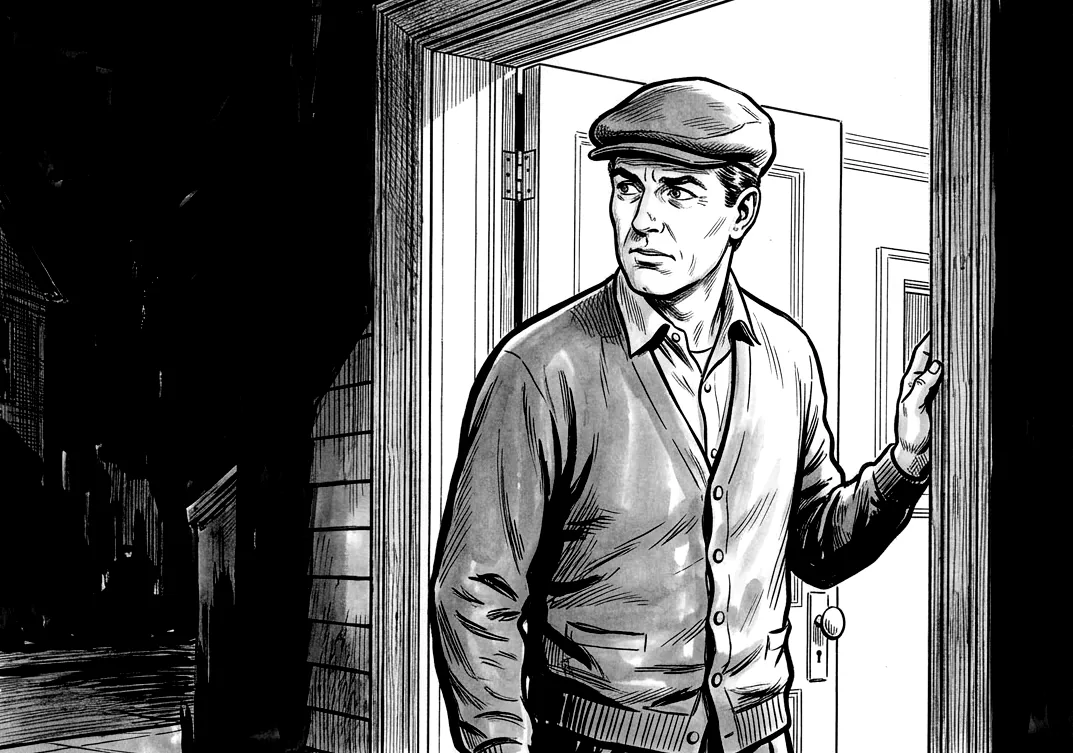
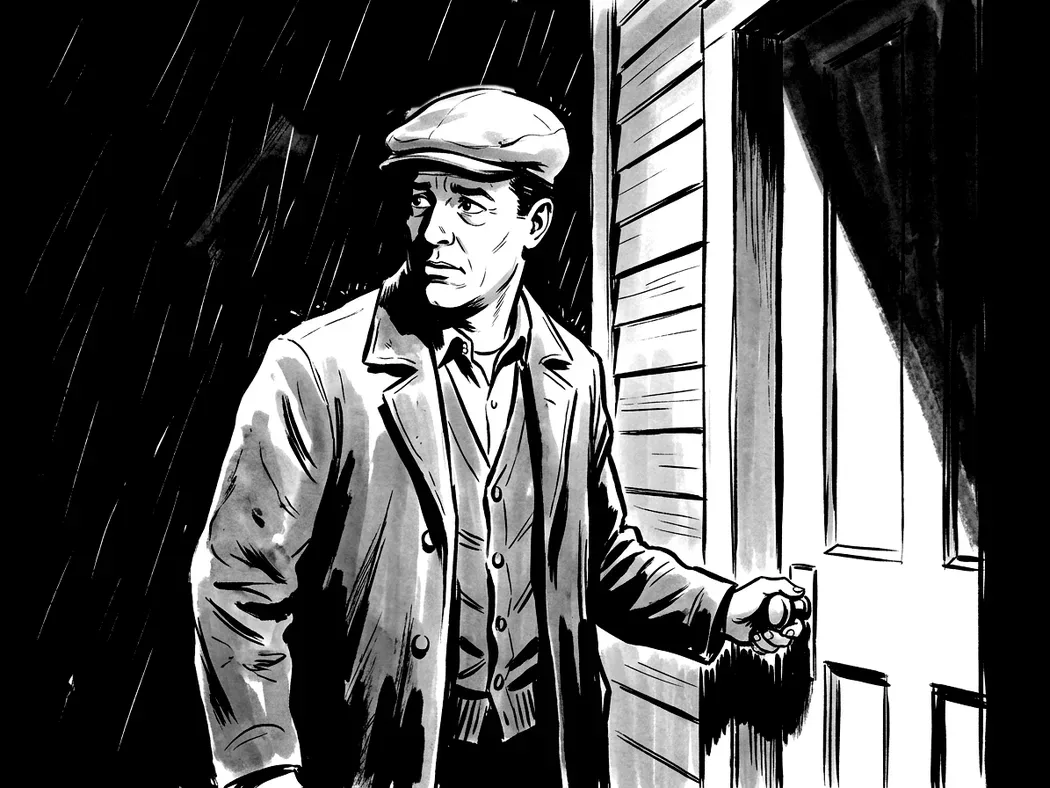
Byt stadsbons rollbilder mot nya vid ytterdörren
Mannen är framtagen efter sex försök och har gatlyktan bortmålad med
svart; kvinnan är gjord med honom som referens (Jonas 2026-11-15).

Claude-Session: https://claude.ai/code/session_01X82C4AptUEE9LHKngPSzUq

diff --git a/src/scenes/sceneImages.js b/src/scenes/sceneImages.js
@@ -96,8 +96,8 @@ export const SCENE_IMAGES = /** @type {const} */ ({
   roleDoctorMan: { src: roleDoctorMan, alt: 'En läkare med glasögon och mustasch, i vit rock med stetoskop, står vid skrivbordet i sin mottagning, i ljuset från en skrivbordslampa.', position: '100% 30%' },
   roleLawyerWoman: { src: roleLawyerWoman, alt: 'En advokat i knäppt dräkt, blus med rosett och liten hatt står i dörren till sin upplysta byrå med en tjock akt mot sidan och glasögonen i handen.', position: '100% 30%' },
   roleLawyerMan: { src: roleLawyerMan, alt: 'En advokat i kritstrecksrandig kostym med väst och lossad slips lutar sig i dörren till sin upplysta byrå med en tjock akt under armen och ler lite slugt.', position: '100% 30%' },
-  roleCitizenWoman: { src: roleCitizenWoman, alt: 'En kvinna i blommig klänning står i sin öppna ytterdörr och ser ut i mörkret med handen mot dörrkarmen.', position: '75% 30%' },
-  roleCitizenMan: { src: roleCitizenMan, alt: 'En man i keps och kofta tittar misstänksamt ut genom sin ytterdörr.', position: '100% 30%' },
+  roleCitizenWoman: { src: roleCitizenWoman, alt: 'En kvinna i sjalett och kappa står vid sin ytterdörr i regnet med handen på dörrknoppen och ser oroligt bakåt.', position: '45% 30%' },
+  roleCitizenMan: { src: roleCitizenMan, alt: 'En man i keps och rock står vid sin ytterdörr i regnet med handen på dörrknoppen och ser oroligt åt sidan.', position: '45% 30%' },
   roleTaxiDriverWoman: { src: roleTaxiDriverWoman, alt: 'En taxichaufför i skärmmössa och skinnjacka lutar sig ut genom fönstret på en taxi en regnig natt utanför ett hotell.', position: '100% 30%' },
   roleTaxiDriverMan: { src: roleTaxiDriverMan, alt: 'En taxichaufför i keps med en cigarett i munnen lutar sig ut genom bilrutan en regnig natt utanför ett hotell.', position: '85% 30%' },
   roleWindowWatcherWoman: { src: roleWindowWatcherWoman, alt: 'En kvinna i morgonrock och papiljotter drar undan en spetsgardin och spanar ut i mörkret.', position: '100% 30%' },

diff --git a/docs/bildsmak.md b/docs/bildsmak.md
@@ -321,6 +321,14 @@ en regel.
   hål och sedan är det ett till nyckelhål under". Prompten låter nu personen
   ha handen på en rund dörrknopp, utan nyckel, och dörren är fullstor ("dörren
   ser lite för liten ut").
+- 2026-11-15, `roll-stadsbo-*` vid dörren efter sex försök med mannen. Jonas
+  valde det näst sista ("Jag gillar den näst sista bäst") men ville ha
+  gatlyktan ovanför huvudet bortmålad med svart, inte med ljus ("den skulle
+  målas över med svart"). Det inmålade regnet skulle vara glest och ljust
+  som det övriga ("ta bort det mesta av det, och gör det ljusare"). Ett
+  försök vid köksbordet var "inte bra". Kvinnan blev rätt på första försöket
+  med mannens bild som referens ("Toppen!"). Slutsatserna står under "Undvik
+  i prompter" i `docs/bilder-och-prompter.md`.
 
 ## Bilder att byta
 
